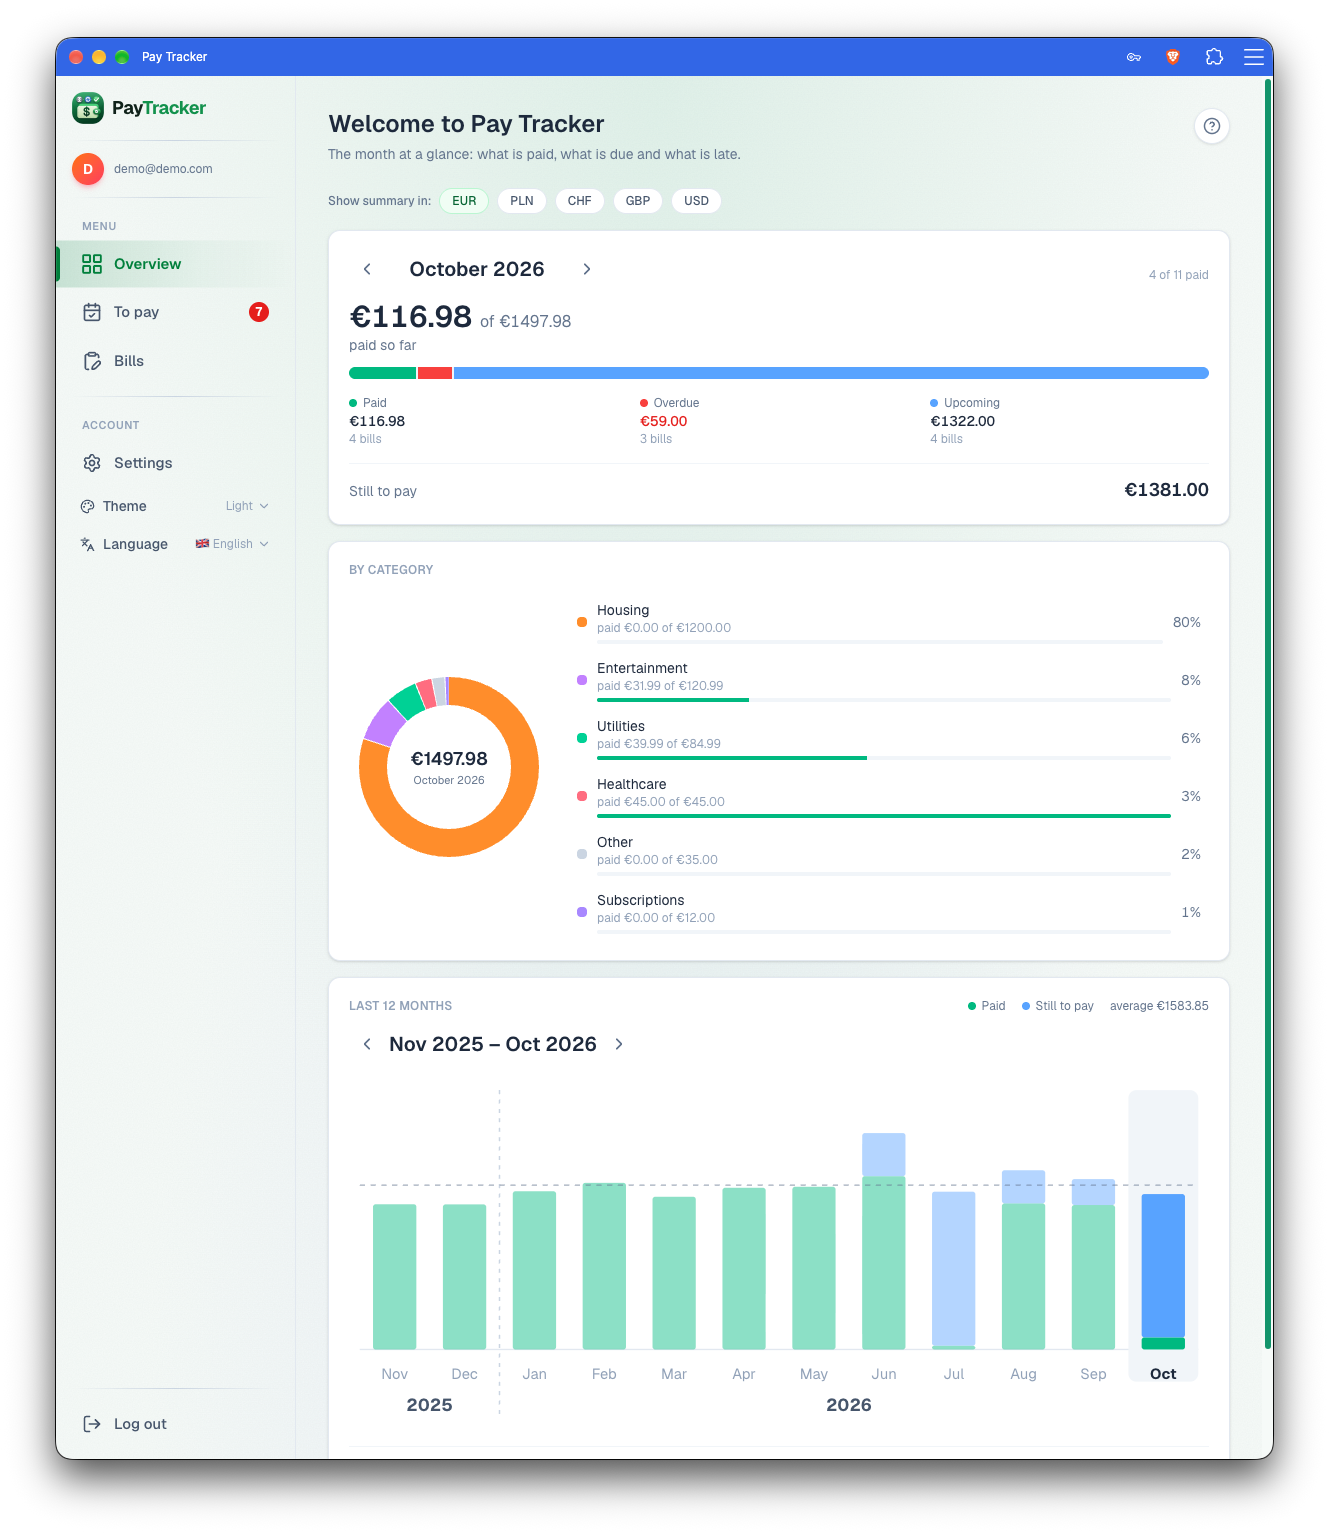
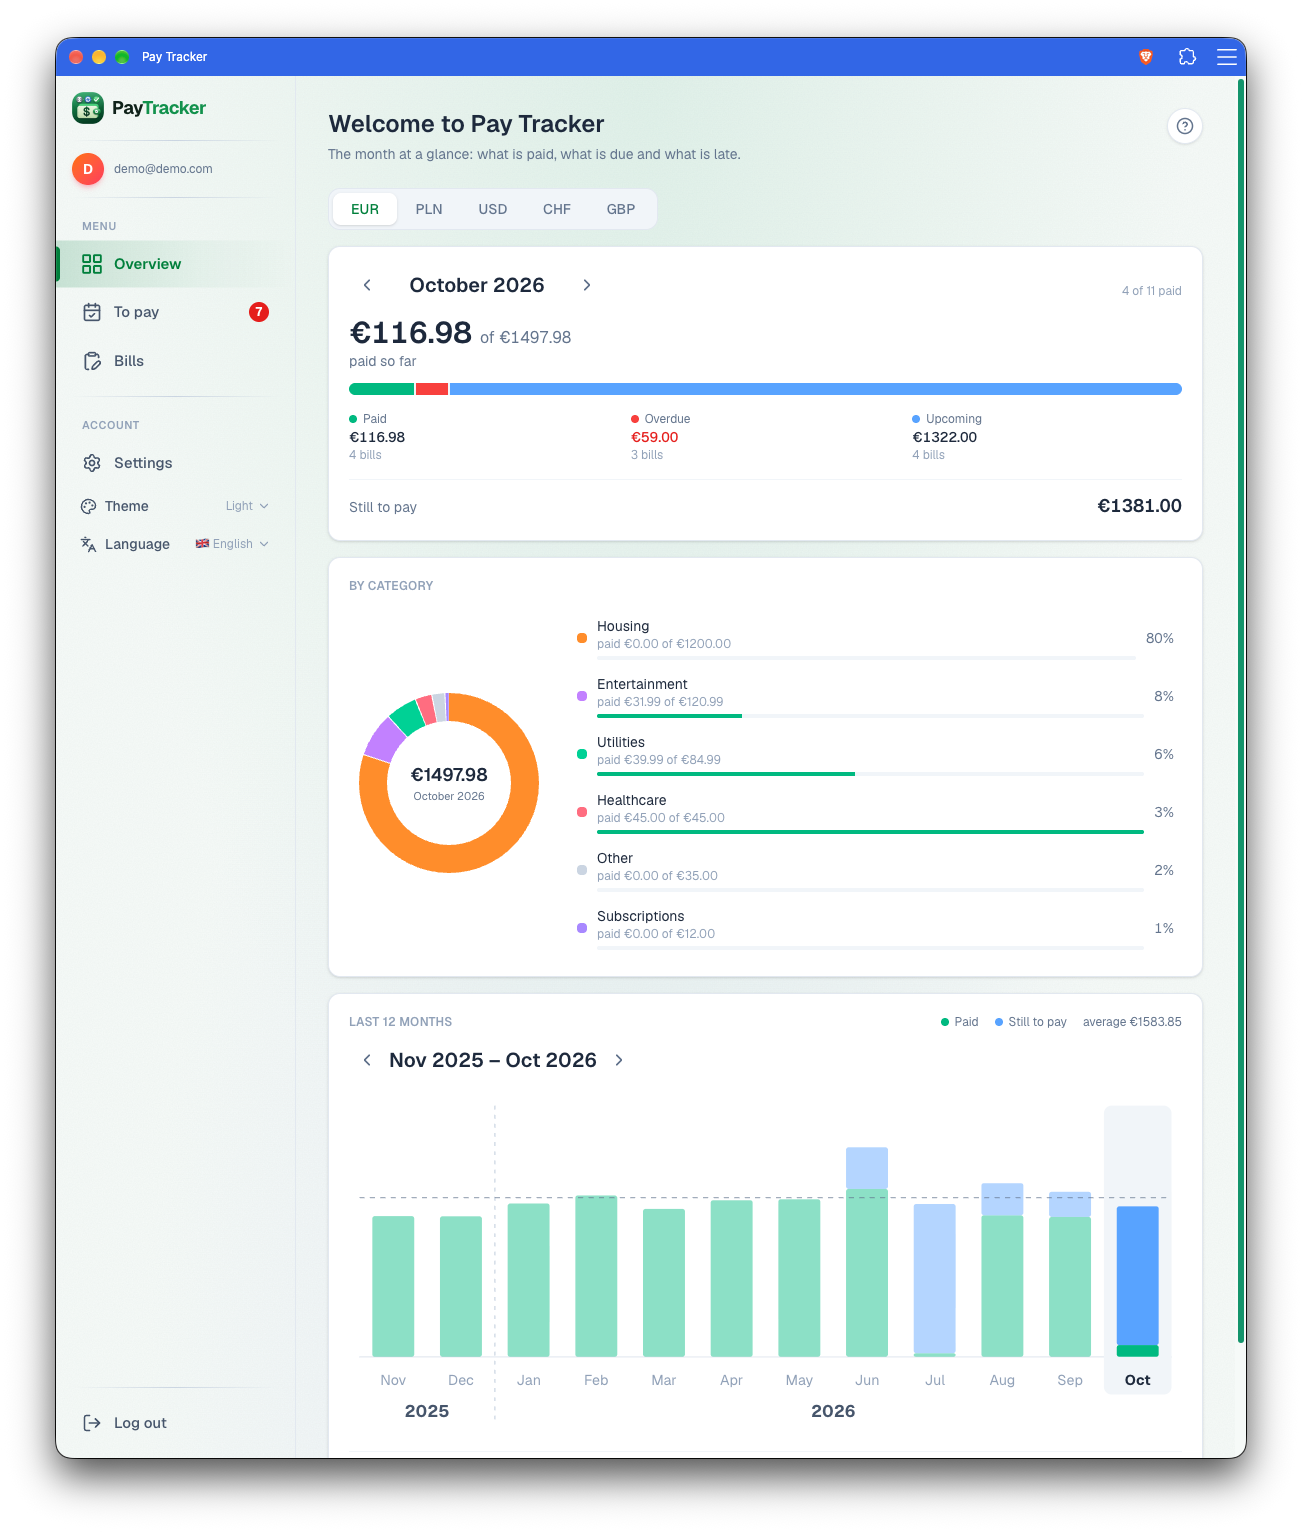
feat(dashboard): fit currency switch to screen and remember choice

diff --git a/frontend/src/components/dashboard/CurrencySwitch.tsx b/frontend/src/components/dashboard/CurrencySwitch.tsx
@@ -1,14 +1,20 @@
 "use client";
 
+import { useLayoutEffect, useRef, useState } from "react";
 import Dropdown from "@/components/ui/Dropdown";
 
-const MAX_SEGMENTS = 3;
+// Chrome around the segments (padding + border of the pill) and next to them (gap + "+N" button).
+const PILL_CHROME = 10;
+const GAP = 8;
+const MORE_WIDTH = 80;
+
+const SEGMENT_CLASS = "min-w-16 rounded-lg px-4 py-1.5 text-sm font-medium transition-all";
 
 /**
- * Picks the dashboard currency. The segments are the currencies that have bills this month
- * (`active`, biggest first, at most three); every other currency with data sits in a
- * dropdown. A currency picked from the dropdown takes the last segment's place (or the next
- * free one) so the current choice is always visible.
+ * Picks the dashboard currency. Every currency is a segment while they all fit on one line;
+ * when they don't, the first ones that fit stay and the rest move into a "+N" dropdown.
+ * Currencies with bills this month (`active`, biggest first) come first. A currency picked
+ * from the dropdown takes the last segment's place so the current choice is always visible.
  */
 export default function CurrencySwitch({
   currencies,
@@ -23,22 +29,55 @@ export default function CurrencySwitch({
   onChange: (currency: string) => void;
   label: string;
 }) {
-  const top = active.slice(0, MAX_SEGMENTS);
-  const segments = top.includes(value)
-    ? top
-    : [...top.slice(0, MAX_SEGMENTS - 1), value];
-  const rest = currencies.filter((c) => !segments.includes(c));
+  const order = [...active, ...currencies.filter((c) => !active.includes(c))];
+  const wrapRef = useRef<HTMLDivElement>(null);
+  const measureRef = useRef<HTMLDivElement>(null);
+  const [fit, setFit] = useState(order.length);
+  const orderKey = order.join();
+
+  useLayoutEffect(() => {
+    const wrap = wrapRef.current;
+    const measure = measureRef.current;
+    if (!wrap || !measure) return;
+    const compute = () => {
+      const widths = [...measure.children].map((c) => (c as HTMLElement).offsetWidth);
+      const available = wrap.clientWidth;
+      const upTo = (n: number) => widths.slice(0, n).reduce((a, b) => a + b, 0) + PILL_CHROME;
+      if (upTo(widths.length) <= available) {
+        setFit(widths.length);
+        return;
+      }
+      let n = widths.length - 1;
+      while (n > 1 && upTo(n) + GAP + MORE_WIDTH > available) n--;
+      setFit(Math.max(1, n));
+    };
+    compute();
+    const ro = new ResizeObserver(compute);
+    ro.observe(wrap);
+    ro.observe(measure);
+    return () => ro.disconnect();
+  }, [orderKey]);
+
+  const shown = order.slice(0, fit);
+  if (fit < order.length && !shown.includes(value)) shown[fit - 1] = value;
+  const rest = order.filter((c) => !shown.includes(c));
 
   return (
-    <div role="group" aria-label={label} className="flex flex-wrap items-center gap-2">
+    <div ref={wrapRef} role="group" aria-label={label} className="relative flex items-center gap-2">
+      {/* Unseen copy of every segment, only there to measure how many fit */}
+      <div ref={measureRef} aria-hidden className="pointer-events-none invisible absolute flex">
+        {order.map((c) => (
+          <span key={c} className={SEGMENT_CLASS}>{c}</span>
+        ))}
+      </div>
       <div className="inline-flex rounded-xl border border-slate-200 bg-slate-100 p-1 dark:border-slate-700 dark:bg-slate-900/40">
-        {segments.map((c) => (
+        {shown.map((c) => (
           <button
             key={c}
             type="button"
             aria-pressed={c === value}
             onClick={() => onChange(c)}
-            className={`min-w-16 rounded-lg px-4 py-1.5 text-sm font-medium transition-all ${
+            className={`${SEGMENT_CLASS} ${
               c === value
                 ? "bg-white text-green-700 shadow-sm dark:bg-slate-700 dark:text-green-300"
                 : "text-slate-500 hover:text-slate-800 dark:text-slate-400 dark:hover:text-slate-200"

diff --git a/frontend/src/app/dashboard/page.tsx b/frontend/src/app/dashboard/page.tsx
@@ -25,6 +25,7 @@ import OnboardingChecklist from "@/components/help/OnboardingChecklist";
 import CurrencySwitch from "@/components/dashboard/CurrencySwitch";
 import MonthNav from "@/components/dashboard/MonthNav";
 import { useSwipe } from "@/hooks/useSwipe";
+import { useSessionString, VIEW_STATE_KEYS } from "@/hooks/useSessionState";
 
 export default function DashboardPage() {
   const t = useTranslations("Dashboard");
@@ -43,7 +44,9 @@ export default function DashboardPage() {
     defaultCurrency: string | null;
   } | null>(() => getCached(`dashboard:${currentMonth}`) ?? null);
   const [error, setError] = useState<string | null>(null);
-  const [selectedCurrency, setSelectedCurrency] = useState<string | null>(null);
+  // Kept for the signed-in session, so coming back from another page shows the same currency
+  const [storedCurrency, setSelectedCurrency] = useSessionString(VIEW_STATE_KEYS.dashboardCurrency);
+  const selectedCurrency = storedCurrency || null;
 
   useEffect(() => {
     let cancelled = false;

diff --git a/frontend/tests/e2e/22-dashboard-summary.spec.ts b/frontend/tests/e2e/22-dashboard-summary.spec.ts
@@ -37,6 +37,13 @@ test('dashboard summarises each currency separately and is reachable from the lo
   await expect(card).toContainText(/PLN\s?200/);
   await expect(card).not.toContainText('€');
 
+  // Step: the choice survives a visit to another page
+  await page.getByRole('navigation').getByRole('link', { name: 'To pay' }).click();
+  await expect(page).toHaveURL(/\/dashboard\/payments/);
+  await page.getByRole('navigation').getByRole('link', { name: 'Overview' }).click();
+  await expect(page.getByRole('group', { name: 'Show summary in:' }).getByRole('button', { name: 'PLN' })).toHaveAttribute('aria-pressed', 'true');
+  await expect(card).toContainText(/PLN\s?200/);
+
   // Step: donut lists the bill's category and the trend chart is rendered
   await expect(page.getByRole('region', { name: 'By category' })).toContainText('Utilities');
   await expect(page.getByRole('region', { name: 'Last 12 months' })).toBeVisible();

diff --git a/frontend/src/hooks/useSessionState.ts b/frontend/src/hooks/useSessionState.ts
@@ -3,7 +3,7 @@
 import { useCallback, useState } from "react";
 import { COLLAPSED_CATEGORIES_KEYS } from "./useCollapsedCategories";
 
-// Search / filter / sort state of the Payments and Bills lists. It survives
+// Search / filter / sort state of the Payments and Bills lists, and the Dashboard currency. It survives
 // navigating between pages (and a reload) while signed in, and is wiped on
 // login, logout and session expiry so every sign-in starts from the defaults.
 export const VIEW_STATE_KEYS = {
@@ -15,6 +15,7 @@ export const VIEW_STATE_KEYS = {
   billsCategories: "bills-categories",
   billsSort: "bills-sort",
   billsShowPaused: "bills-show-paused",
+  dashboardCurrency: "dashboard-currency",
 } as const;
 
 export function clearViewState(): void {

diff --git a/CHANGELOG.md b/CHANGELOG.md
@@ -6,16 +6,17 @@ Notable changes, release by release.
 
 ### Features
 
-- New bills start as drafts you can edit freely, and “Generate payments” turns them on when you're ready
-- Ribbons on bills and payments mark drafts, paused bills, overdue and due-today payments, and the last payment
-- Upcoming payments show how many days are left
-- Payment popups are tinted in the payment's status color
-- Collapse or expand all tiles at once in every Settings tab
-- The “Get started in 3 steps” card now sits on the Dashboard, the first page after login
+- New bills start as drafts; “Generate payments” activates them
+- Ribbons mark drafts, paused bills, overdue, due-today and last payments
+- Upcoming payments show days left
+- Payment popups are tinted by payment status
+- Collapse/expand all tiles in Settings
+- “Get started” card moved to the Dashboard
+- Dashboard currency switch adapts to screen width and remembers your choice
 
 ### Fixes
 
-- The “Get started” card is no longer hidden on a new account because it was hidden on another one
+- “Get started” card no longer hidden on new accounts
 - UI adjustments
 
 ## v1.4.0 — 14-10-2026
